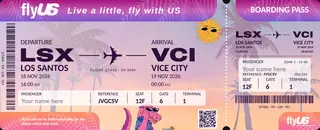
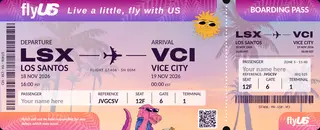
Goodtime State: stickers on top, a gator on the Story card
The stickers now sit over the ticket, the Story card and the Post's
ticket instead of behind them, placed clear of text, the QR code and
the barcode. The Story card gets the gator next to the reference.

diff --git a/site/js/art.js b/site/js/art.js
@@ -50,16 +50,18 @@ export const ART_THEMES = {
   },
   // Rockstar's illustrated Vice City Collection art instead of a screenshot (palms at dusk on the ticket,
   // the lifeguard beach on the Story card and the scenes), with the collection's stickers over the wash.
-  // Sticker rows are [name, x, y, width]; a fifth `true` drops it under the First Class seal.
+  // Sticker rows are [name, x, y, width]; a fifth `true` drops it where the First Class seal goes. They sit
+  // on top of everything, so each spot keeps clear of text, the QR code and the barcode.
   goodtime: {
     sky: ['#FFF4FA', '#FFF0F2', '#FFEBDD'], wash: .42, tint: '#FFF6F4', veil: .5,
     band: ['#A3127A', '#C560B7', '#7A55CF'], bandFrond: '#FFFFFF', bandFrondOpacity: .2,
     foot: ['#FF8E5E', '#F06AA0'], footFrond: '#FFFFFF', footFrondOpacity: .25,
     scene: { story: 'scene-story-goodtime.jpg', post: 'scene-post-goodtime.jpg' },
     stickers: {
-      ticket: [['sun', 1214, 96, 186, true], ['gator', 740, 648, 380]],
-      story: [['sun', -46, -40, 190], ['flamingo', -30, 1470, 250], ['manatee', 790, 1650, 300]],
-      post: [['manatee', -30, 700, 250], ['flamingo', 1450, 540, 190]],
+      ticket: [['sun', 1196, 52, 200, true], ['gator', 740, 652, 380]],
+      card: [['gator', 625, 1046, 245]],
+      story: [['sun', -46, -40, 190], ['flamingo', -20, 1560, 260], ['manatee', 790, 1572, 300]],
+      post: [['manatee', -24, 690, 260], ['flamingo', 1474, 548, 196]],
     },
   },
 };
@@ -146,8 +148,7 @@ export function ticketArt({ theme, foil, P, src = photoSrc }) {
   // 1 photo, 2 livery wash: the sky gradient over the whole pass plus a stronger veil on the left, where
   // the departure column and the passenger row sit, so ink keeps its contrast on any part of the shot
   const back = `<image href="${src(PHOTOS.ticket(theme))}" width="2000" height="813" preserveAspectRatio="xMidYMid slice"/>`
-    + `<rect width="2000" height="813" fill="${url('sky')}" fill-opacity="${A.wash}"/><rect width="2000" height="813" fill="${url('tint')}"/>`
-    + stickers(A, 'ticket', src, foil);
+    + `<rect width="2000" height="813" fill="${url('sky')}" fill-opacity="${A.wash}"/><rect width="2000" height="813" fill="${url('tint')}"/>`;
 
   // 8 tabs: band / foot gradients (or First Class foil) with big close-up fronds clipped inside each tab
   const bandFill = foil ? url('foil') : url('band'), footFill = foil ? url('foil') : url('foot');
@@ -164,7 +165,7 @@ export function ticketArt({ theme, foil, P, src = photoSrc }) {
     + vgrad(id('foot'), 700, 813, stops(A.foot))
     + (foil ? foilGrad(id('foil'), 2000, 400) : '')
     + Object.entries(TABS).map(([k, d]) => `<clipPath id="${id('c' + k)}"><path d="${d}"/></clipPath>`).join('');
-  return { defs, back, tabs };
+  return { defs, back, tabs, top: stickers(A, 'ticket', src, foil) };   // top: over the ink, like stuck-on stickers
 }
 
 // ---------- Story card (card-local 912×1440) ----------
@@ -176,10 +177,9 @@ export function cardArt({ theme, foil, P, src = photoSrc }) {
     + (foil ? foilGrad(id('cfoil'), 912, 176) : '')
     + `<clipPath id="${id('cbandclip')}"><rect width="912" height="176"/></clipPath>`;
   const field = `<image href="${src(PHOTOS.card(theme))}" width="912" height="1440" preserveAspectRatio="xMidYMid slice"/>`
-    + `<rect width="912" height="1440" fill="${url('csky')}" fill-opacity="${A.wash}"/><rect width="912" height="1440" fill="${url('ctint')}"/>`
-    + stickers(A, 'card', src, foil);
+    + `<rect width="912" height="1440" fill="${url('csky')}" fill-opacity="${A.wash}"/><rect width="912" height="1440" fill="${url('ctint')}"/>`;
   const band = `<g clip-path="${url('cbandclip')}"><rect width="912" height="176" fill="${foil ? url('cfoil') : url('cband')}"/><path d="${spray(CARD_FRONDS)}" fill="${A.bandFrond}" fill-opacity="${A.bandFrondOpacity}"/></g>`;
-  return { defs, field, band };
+  return { defs, field, band, top: stickers(A, 'card', src, foil) };
 }
 const CARD_FRONDS = [[960, -70, 172, 420, 40], [960, -70, 146, 360, 50], [960, -70, 120, 270, 30], [960, -70, 96, 200, 20]];
 
@@ -193,7 +193,6 @@ export function sceneArt({ theme, width: W, height: H, P, src = photoSrc }) {
   const defs = vgrad(id('sshade'), 0, H, stops(['#100D16', '#100D16', '#100D16', '#100D16'], [0, .3, .62, 1], [.62, 0, .1, .9]));
   const body = `<rect width="${W}" height="${H}" fill="#100D16"/>`
     + `<image href="${src(H > W ? PHOTOS.story(theme) : PHOTOS.post(theme))}" width="${W}" height="${H}" preserveAspectRatio="xMidYMid slice"/>`
-    + `<rect width="${W}" height="${H}" fill="${A.sky[1]}" fill-opacity=".16"/><rect width="${W}" height="${H}" fill="${url('sshade')}"/>`
-    + stickers(A, H > W ? 'story' : 'post', src, false);
-  return { defs, body };
+    + `<rect width="${W}" height="${H}" fill="${A.sky[1]}" fill-opacity=".16"/><rect width="${W}" height="${H}" fill="${url('sshade')}"/>`;
+  return { defs, body, top: stickers(A, H > W ? 'story' : 'post', src, false) };   // top: over the card or ticket
 }

diff --git a/site/js/ticket.js b/site/js/ticket.js
@@ -203,7 +203,7 @@ function landscape(p, T, P, src) {
     + text(1514, 556, 41.2, p.seat, ' data-flap=""') + text(1662, 556, 41.2, FLIGHT.gate) + text(1808.1, 556, 41.2, FLIGHT.terminal)
     + '</g></g>' + seal + '</g>';
 
-  return { defs, body: `<g clip-path="url(#${P}e-shape)">${A.back}${A.tabs}${boxes}${tear}${ink}</g>` };
+  return { defs, body: `<g clip-path="url(#${P}e-shape)">${A.back}${A.tabs}${boxes}${tear}${ink}${A.top}</g>` };
 }
 
 // ---------- Story 1080×1920 (spec D.6): scene + vertical card ----------
@@ -254,9 +254,9 @@ function story(p, T, P, now, until, src) {
     + C.field + C.band
     + `<g fill="${T.box}" fill-opacity="${T.boxOpacity}"${line}>${rect(32, 540, 848, 160, ' rx="12"')}</g>`
     + `<path d="M56,1076H856" fill="none" stroke="${T.tear}" stroke-opacity="${T.tearOpacity}" stroke-width="7" stroke-linecap="round" stroke-dasharray="0 18"/>`
-    + ink + '</g></g></g>';
+    + ink + C.top + '</g></g></g>';
 
-  return { defs, body: S.body + scene + card };
+  return { defs, body: S.body + scene + card + S.top };
 }
 
 // ---------- Post 1600×900 (spec D.7): the landscape ticket tilted on the dusk scene ----------
@@ -268,7 +268,8 @@ function post(p, T, P, src) {
     defs: S.defs + SHADOW(P, 40, 126, 1520, 740),
     body: S.body
       + `<g fill="#FFFFFF" font-family="${SANS}" font-weight="700">${text(100, 92, 30, 'NOW BOARDING · GT406', ' letter-spacing="6"')}</g>`
-      + `<g transform="rotate(-2 800 470)" filter="url(#${P}e-shadow)"><svg x="100" y="186" width="1400" height="569" viewBox="0 0 2000 813"><defs>${k.defs}</defs>${k.body}</svg></g>`,
+      + `<g transform="rotate(-2 800 470)" filter="url(#${P}e-shadow)"><svg x="100" y="186" width="1400" height="569" viewBox="0 0 2000 813"><defs>${k.defs}</defs>${k.body}</svg></g>`
+      + S.top,
   };
 }
 
